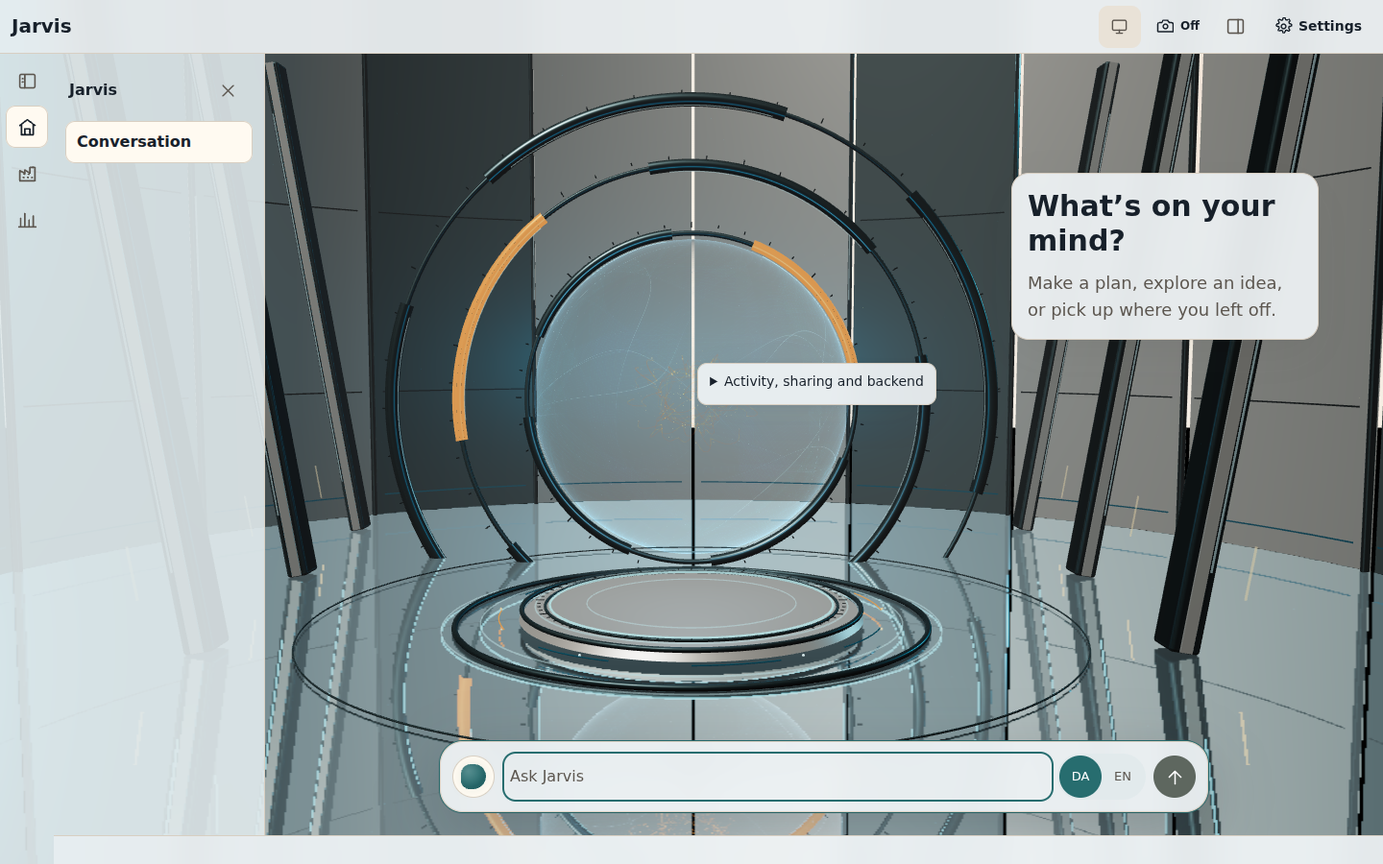
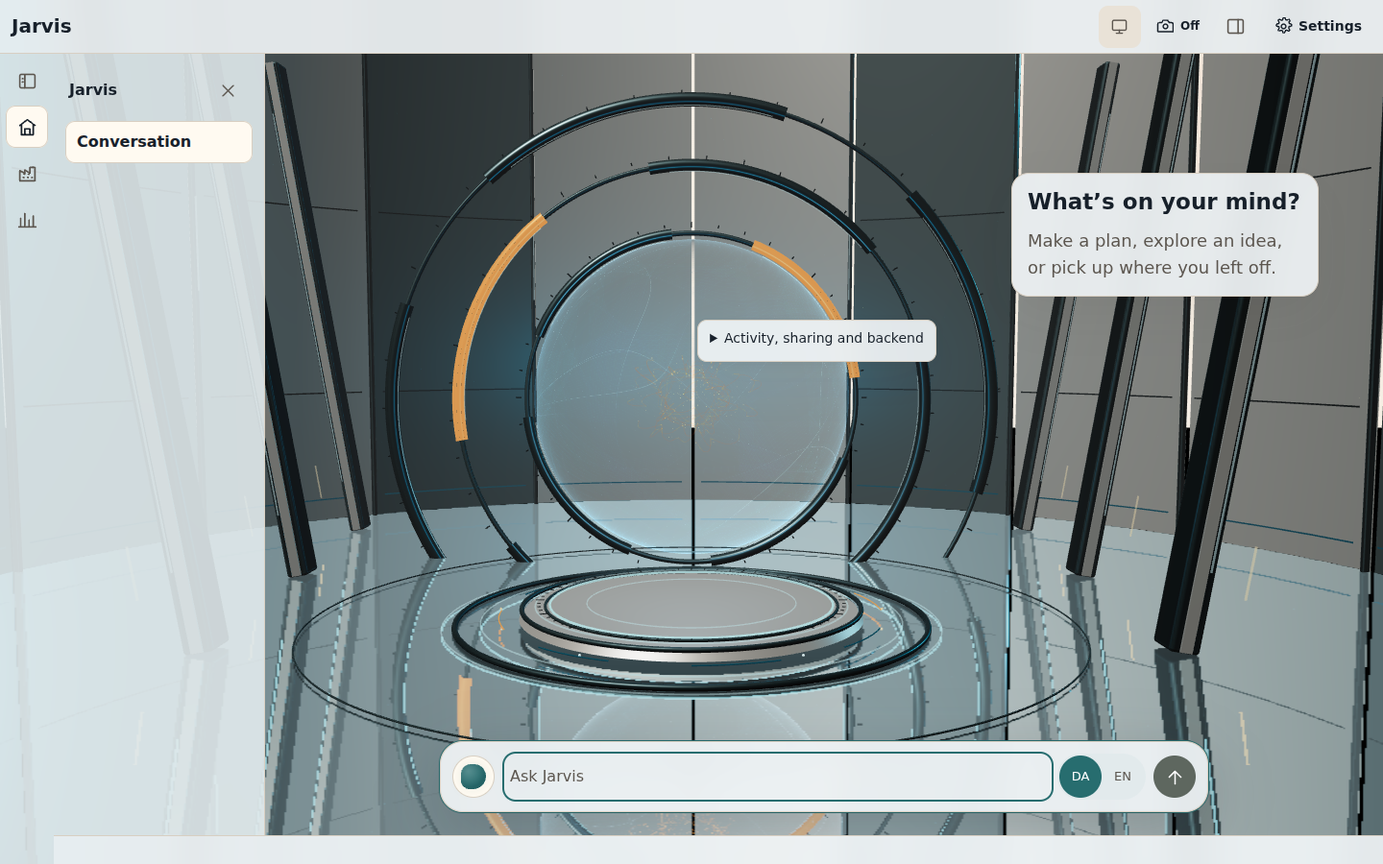
Complete appearance docs and regressions

Changed region(s): [[0.7188, 0.2178, 0.9688, 0.4044], [0.5, 0.3422, 0.6875, 0.4667]]

diff --git a/apps/web/src/theme-preference.test.tsx b/apps/web/src/theme-preference.test.tsx
@@ -157,6 +157,26 @@ describe('ThemePreferenceProvider', () => {
     await waitFor(() => expect(document.documentElement.dataset.theme).toBe('dark'));
   });
 
+  it('keeps the current theme while a save is pending and applies it only after acceptance', async () => {
+    const user = userEvent.setup();
+    let resolveSave!: (value: Response) => void;
+    fetchMock.mockResolvedValueOnce(response('light'))
+      .mockReturnValueOnce(new Promise<Response>((resolve) => { resolveSave = resolve; }));
+    renderPreference();
+
+    const light = await screen.findByRole('radio', { name: 'Light' });
+    await user.click(screen.getByRole('radio', { name: 'Dark' }));
+
+    expect(screen.getByText('Saving theme…')).not.toBeNull();
+    expect(screen.getByRole('radio', { name: 'Dark' }).closest('fieldset')).toHaveProperty('disabled', true);
+    expect(light).toHaveProperty('checked', true);
+    expect(document.documentElement.dataset.theme).toBe('light');
+
+    resolveSave(response('dark'));
+    await waitFor(() => expect(document.documentElement.dataset.theme).toBe('dark'));
+    expect(await screen.findByText('Theme saved.')).not.toBeNull();
+  });
+
   it('keeps the prior mode active after a rejected update and recovers on retry', async () => {
     const user = userEvent.setup();
     let storedTheme = 'light';

diff --git a/apps/web/src/SettingsPage.tsx b/apps/web/src/SettingsPage.tsx
@@ -394,7 +394,7 @@ export function SettingsPage({ backendUrl, getAccessToken }: {
         <form onSubmit={(event) => { void save(event); }}>
           <section className="settings-section" aria-labelledby="appearance-settings-heading">
             <h2 id="appearance-settings-heading">Appearance</h2>
-            <p className="settings-explanation">Choose a light or dark appearance for every page. The accepted theme is saved separately from other settings.</p>
+            <p className="settings-explanation">Choose a light, dark, or system appearance for every page. System follows your OS appearance. The accepted theme is saved separately from other settings.</p>
             <fieldset className="choice-group theme-choice-group"
               disabled={themePreference.state !== 'ready' || themePreference.saving}>
               <legend>Theme</legend>

diff --git a/apps/web/src/ConversationHistory.css b/apps/web/src/ConversationHistory.css
@@ -16,7 +16,7 @@
   box-shadow: var(--panel-shadow);
   backdrop-filter: blur(var(--surface-blur));
 }
-.conversation-greeting h2 { margin: 0; font-family: var(--font-heading); font-size: clamp(26px, 2.1vw, 30px); font-weight: 600; line-height: 1.2; }
+.conversation-greeting h2 { margin: 0; font-family: var(--font-heading); font-size: clamp(22px, 1.6vw, 24px); font-weight: 600; line-height: 1.2; }
 .conversation-greeting p { max-width: 36ch; margin: var(--space-3) 0 0; color: var(--text-muted); }
 .conversation-transcript[hidden], .composer[hidden] { display: none; }
 .conversation-transcript:focus-visible { outline: 3px solid var(--focus); outline-offset: -3px; }

diff --git a/apps/web/src/SettingsPage.test.tsx b/apps/web/src/SettingsPage.test.tsx
@@ -244,6 +244,7 @@ describe('SettingsPage', () => {
     renderSettingsPage();
 
     await screen.findByRole('heading', { name: 'Appearance', level: 2 });
+    expect(screen.getByText(/light, dark, or system appearance/)).not.toBeNull();
     expect(screen.getByRole('radio', { name: 'Light' })).toHaveProperty('checked', true);
     expect(screen.getByRole('radio', { name: 'Dark' })).toHaveProperty('disabled', false);
     expect(screen.getByRole('radio', { name: 'System' })).toHaveProperty('disabled', false);

diff --git a/PLAN.md b/PLAN.md
@@ -6,7 +6,7 @@ Phase 1 delivers the Software Factory. Requirements and page specifications are 
 
 - **Approved Software Factory layout (#369):** Task Lens board, project release bar and right task-details pane are planned in P8-34. The design handoff is published for review; shared glass task #364 (P8-31) is merged in #376. Existing task/detail/release contracts remain authoritative.
 
-- **Accepted centred Jarvis stage (P8-28–P8-33, #361–#366):** The handoff and prerequisites are complete; P8-28 (#375) and P8-31 (#376) are merged. P8-29's persistent orb wiring to authenticated activity and decoded playback audio is implemented offline in draft PR #377; focused web tests, lint and build pass. Scratch Chromium verified the same stage canvas in dormant, connecting, ready, playback-response and activity-fixture states at 1440×1000 and 390×844, in dark and light. Microphone capture remained off until the explicit enable action; reduced motion matched, mobile had no horizontal overflow, and no browser or shader errors remained after fixing the observed shader compile error. Evidence is in `docs/ui/centred-stage/p8-29-browser/`. Runtime fixtures are local and schema-valid, not live provider delivery; real microphone/speaker, hardware GPU, physical phone, Safari and flicker acceptance remain unverified. P8-30 owns reported transition-flicker verification. Keep P8-29–P8-33 follow-ups and their existing contracts distinct; do not manually change Issue/Status columns.
+- **Accepted centred Jarvis stage (P8-28–P8-33, #361–#366):** The handoff and prerequisites are complete; P8-28 (#375) and P8-31 (#376) are merged. P8-29's persistent orb wiring to authenticated activity and decoded playback audio is implemented offline in draft PR #377. P8-32 is implemented in PR #387: the same scene reads semantic theme roles, persists system mode through the existing settings contract, and the empty prompt/activity disclosure use readable glass. Focused web/backend checks and reduced-motion Chromium light desktop/phone captures are being completed. Chromium confirms an OS light↔dark change preserves the scene canvas, open activity disclosure and composer focus; evidence is in `docs/ui/screenshots/p8-32-empty-light-*.png`. These are local fixture captures, not live settings or provider verification; microphone/speaker, hardware GPU, physical phone, Safari and P8-30 flicker acceptance remain unverified. Keep P8-29–P8-33 follow-ups and their existing contracts distinct; do not manually change Issue/Status columns.
 - **P7-23 (#327):** Reopened: live first word remains 9–19 s after the earlier reflex fix. Chat settings now load alongside catalogue/context; content-free stage logs and spans, first-delta forwarding/cleanup, and incremental-streaming tests are implemented offline. Keep the 60-second container catalogue cache and on-demand memory tools; do not reintroduce caller-chosen `agent_session_id` (reverted in #356). Next: deploy through the approved workflow, collect Application Insights before/after timings, and investigate the reported ~4.5 s pre-container delay. The ≤2.5 s first-token / ≤4 s complete-reply acceptance is not verified.
 - **Approved Software Factory layout (#369):** Task Lens board, project release bar and right task-details pane are planned in P8-34. The design handoff is published for review; implementation waits for shared glass task #364 (P8-31), now in progress in PR #376. Existing task/detail/release contracts remain authoritative.
 
@@ -354,7 +354,7 @@ P8-04–P8-13 are the initial frontend allocation, selected after checking `main
 | P8-29 | [#362](https://github.com/DanAakesen/jarvis/issues/362) | Replace the current voice-only orb presentation with the accepted always-visible cyan orb and transparent amber core, connected to existing runtime activity and playback audio. | Persistent transparent cyan exterior/open amber core in typing and voice; real observed activity and playback-audio adapter; readiness/microphone rules unchanged; accessible state/reduced-motion and failure/reconnect tests. Full scope/checks: [#362](https://github.com/DanAakesen/jarvis/issues/362). | P8-28, P8-09, P8-16 | Complete |
 | P8-30 | [#363](https://github.com/DanAakesen/jarvis/issues/363) | Integrate the accepted persistent scene with real voice/window lifecycle, diagnose and remove reported transition flicker, and preserve reversible mode/window motion. | Diagnose and remove reported flicker in recorded entry/exit, reversals and repeated window cycles; same scene, orb-only placement; preserve tabs/windows, draft/focus, default-off preference, End voice/Escape and truthful acknowledgements. Full scope/checks: [#363](https://github.com/DanAakesen/jarvis/issues/363). | P8-29, P8-10, P8-07, P8-15 | Not started |
 | P8-31 | [#364](https://github.com/DanAakesen/jarvis/issues/364) | Apply the selected glass window and shell treatment to real components while preserving existing navigation, conversation, actions and temporary workspace behaviour. | Selected readable glass treatment across real shared components/pages; no 3D outside Jarvis; preserve existing controls/data/keyboard/window actions; contrast/focus/touch/long-content and dark/light responsive evidence. Full scope/checks: [#364](https://github.com/DanAakesen/jarvis/issues/364). | P8-01, P8-04, P8-06, P8-07, P8-08, P8-22 | Complete |
-| P8-32 | [#365](https://github.com/DanAakesen/jarvis/issues/365) | Implement dark and light appearances using the same live 3D Jarvis room, with theme-aware lighting/materials and persistent approved theme preferences. | Same room re-lit in light mode; geometry/viewpoint/window/runtime continuity through dark/light/system switching; persistent approved theme tokens and invalid-change recovery; readable light-mode browser evidence. Full scope/checks: [#365](https://github.com/DanAakesen/jarvis/issues/365). | P8-28, P8-29, P8-31, P8-13, P8-17 | Not started |
+| P8-32 | [#365](https://github.com/DanAakesen/jarvis/issues/365) | Implement dark and light appearances using the same live 3D Jarvis room, with theme-aware lighting/materials and persistent approved theme preferences. | Re-light the same scene; preserve geometry/viewpoint/window/runtime continuity through dark/light/system switching; persist approved theme tokens with invalid-change recovery; keep empty-state HTML readable and clear of the orb; record reduced-motion browser evidence. Full scope/checks: [#365](https://github.com/DanAakesen/jarvis/issues/365). | P8-28, P8-29, P8-31, P8-13, P8-17 | Not started |
 | P8-33 | [#366](https://github.com/DanAakesen/jarvis/issues/366) | Finish the accepted 3D experience on phones and constrained browsers, with adaptive rendering, reduced motion, resource recovery and end-to-end acceptance. | Phone foreground view/swipe/dock and reachable controls; adaptive rendering and hidden/off-route lifecycle; reduced motion and WebGL recovery/fallback; motion/performance/regression evidence with live/physical-device limits explicit. Full scope/checks: [#366](https://github.com/DanAakesen/jarvis/issues/366). | P8-30, P8-31, P8-32, P8-11 | Not started |
 
 ### Out of scope for phase 1

diff --git a/docs/decisions.md b/docs/decisions.md
@@ -32,6 +32,7 @@ The nine design areas and where each stands. **Confirmed** = Dan's requirement o
 | 2026-10-05 | P7-20 streams English and Danish Voice Live partial transcriptions to the backend relay. Jev receives stable clauses and the per-turn execution ledger; only complete, high-confidence, reversible safe actions may run on partials. Final transcripts update any early source message, reconcile contradictory actions with supported undo, and hand truthful results to Jarvis. | The relay tests use timed fake deltas and a fake Jev client to prove action-before-final, duplicate suppression, confirmation gating, contradiction undo, message replacement and latency recording. Metrics are allowlisted without transcript content. Live Voice Live event delivery, Jev network latency, and physical audio timing remain unverified. | Implemented offline; live verification pending |
 | 2026-10-05 | P8-23 applies the existing Concept B/C aurora and orb to voice mode: show only workspace windows, keep Arrange in each window's overflow, present actual runtime/audio state with one quiet detail line, and group named voice actions beneath the orb. Reuse the composer-orb/workspace transition and leave P8-16 event plumbing unchanged. | The treatment extends P8-20 tokens and P8-22 chrome without changing voice behavior or inventing tool activity. Focused web tests and Chromium verify atomic status details, the ready-state phone dock, both Escape steps, End voice, responsive bounds, hidden-tab pause and reduced motion. Screenshots are labelled local fixtures, not live voice or tool-event evidence. | Implemented offline; draft PR review pending |
 | 2026-10-05 | P8-31 applies the accepted smoky glass to the existing shell, conversation composer, temporary workspace, contextual panel, Factory and Settings through the existing semantic tokens. Use sans headings, keep current page content and controls, and do not add the 3D room outside Jarvis or copy the reference's illustrative data. | The light/dark glass tokens live in `apps/web/src/styles.css`; tests calculate primary text, muted-text, current-color icon and focus contrast on both glass surfaces over black/white backdrops. Follow-up review found the earlier dark captures were taken before the 420ms appearance transition settled, so dark captures and computed-style evidence were regenerated after the actual dark colors appeared. Conversation Markdown now uses the primary text role, and the light muted-text token meets AA on the glass surface. The integrated foreground was visually checked over the stage in P8-29; see its evidence for limits. | Merged in #376; live/device verification remains pending |
+| 2026-10-05 | P8-32 reuses the existing persisted `light`/`dark`/`system` preference and approved token allowlist. System mode follows OS changes, and the same mounted Jarvis room reads semantic CSS stage roles for its materials, lighting, exposure and atmosphere. Keep the empty prompt on smoky light glass in the app sans font, clear of the orb; supporting explanation stays body text. | The existing settings API remains the persistence boundary; no new setting, provider call or executable theme tool is added. Web regressions cover OS resolution, accepted/refused settings and scene continuity. Scratch-fixture Chromium confirms same-canvas system switching and records reduced-motion light desktop/phone captures under `docs/ui/screenshots/p8-32-*`. The captures are local-render evidence only; live settings, hardware GPU, physical devices, Safari and P8-30 flicker remain unverified. | Implemented offline; coordinator review pending |
 | 2026-10-05 | P8-29 keeps the accepted orb mounted through typing, voice entry, playback and voice exit. Drive awake appearance only from existing authenticated runtime activity, explicit voice state and decoded response-playback PCM; keep visual dormancy independent from backend sleep/readiness, and start microphone capture only after explicit user enablement. Do not add demo selectors or infer activity from local submits. | Reuses the existing Now SSE, `useJarvisActivity` and decoded `BrowserVoiceClient` audio-level callback without another backend contract or DOM wrapper. Focused tests cover scene persistence, activity/audio forwarding and microphone rules. Scratch-fixture Chromium verified desktop/phone dark/light, connecting/ready/audio response, a schema-valid activity event, reduced motion, no phone overflow and no browser/shader errors after the shader fix. Fixture data is not live delivery; actual audio devices, live Entra/Foundry, hardware GPU, physical phone and P8-30 flicker acceptance remain unverified. | Implemented offline in PR #377; live acceptance pending |
 | 2026-10-05 | P8-15 delivers one validated `workspace_command` tool through the existing Jarvis-only authenticated tool registry and the signed-in `/now/events` stream. Keep its queue, command-id deduplication and acknowledgements in process memory; require the owning session's authenticated client to acknowledge after applying or refusing each command. | Reuses the existing authenticated event path and the P8-06/07 `WorkspaceCommandContext`, while keeping generated views/layout transient and avoiding generated code execution. Contract, broker, route, SSE, renderer and workspace tests cover malformed commands, bounds, duplicate IDs, unavailable/stale clients, cancellation, timeout and local application. Live Entra/Foundry delivery remains unverified. | Implemented offline; live acceptance pending |
 | 2026-10-05 | P7-12: speak only fixed status phrases for committed task completion/attention events, signed GitHub ready-for-review and failed-deployment events; merge repeated kinds over 500 ms and wait for Dan, Jarvis and tools to be idle. Retry a queued update when Dan stops speaking. Register `get_status_summary` as an authenticated backend tool returning bounded Now-feed counts only and applying Away-mode visibility. | Task event publication follows SQL commit. GitHub status kinds are published only after signed delivery persistence and existing mapping processing; duplicate deliveries do not create duplicate status events. Fake event-hub, webhook, tool-route and relay tests cover event selection, safe wording, deferral and counts. No new service, schema or dependency is required. | Implemented offline; live voice acceptance pending |

diff --git a/docs/features.md b/docs/features.md
@@ -137,7 +137,7 @@ Status as of 5 October 2026.
 | Desktop voice workspace | Enter full-page voice, carry open views across modes, and restore the typing layout; optionally minimise windows on entry (off by default) | Voice/chat | Main page | Built offline; voice presentation uses P8-20 tokens and P8-22 window chrome; generated workspace delivery remains P8-15, tool activity P8-16, and preference persistence P8-17 | P8-10, P8-14, P8-15, P8-16, P8-17, P8-23 |
 | Phone workspace | Show one foreground view, switch by swipe, named/keyboard controls or client request, and dock active voice below content; return the orb to the main space with no content | Phone | Jarvis on phone; compact typing top bar and composer | Built offline; real components verified with labelled fixtures, authenticated agent delivery remains P8-15 and physical-phone acceptance unverified | P8-11, P8-23 |
 | Manual voice-end affordance | Use the selected manual end control and Escape-key behavior without changing natural spoken ending | Both | Voice workspace | Implemented in P8-10 per the P8-12 decision; P8-23 groups End voice with the orb actions | P8-10, P8-12, P8-23 |
-| Theme controls and client persistence | Choose and persist light/dark appearance across visits; semantic theme variables update across the app. Custom and Jarvis-directed token changes remain unavailable pending P8-17, which uses P8-18's recorded allowlist. | Screen | Shared shell, Settings | Built (offline; live settings unverified) | P8-13 |
+| Theme controls and client persistence | Choose and persist light/dark/system appearance across visits; system follows the OS, semantic theme variables update across the app, and the same Jarvis room is re-lit without remounting. Approved theme tokens remain on the existing P8-17/P8-18 allowlist. | Screen | Shared shell, Settings and Jarvis stage | Built offline; local Chromium confirms same-canvas OS updates; live settings remain unverified | P8-13, P8-32 |
 | Shared visual and motion system | Use Concept B's living aurora in dark mode and Concept C's daylight surfaces in light mode; see readable, responsive feedback tied only to real chat/voice state and playback audio | Screen/voice | Current shell, conversation, tasks, projects, settings and usage | Built offline; live auth/settings/voice remain unverified | P8-20 |
 | Conversation and workspace concept polish | Start from a calm greeting and compact floating composer; read divider-free messages, live caret and quiet metadata; operate translucent windows and Now cards with purposeful, reduced-motion-safe feedback | Screen | Main page and client workspace | Built offline; local screenshot fixtures, not live agent delivery | P8-21 |
 | Agent-directed workspace views | Ask Jarvis to create, update, show, close, minimise, restore, focus, move and resize views, and change the layout or contextual panel | Both | Main page and voice workspace | Built offline; live chat/voice delivery unverified | P8-15 |
@@ -196,6 +196,6 @@ The earlier shell/workspace/contracts remain implemented with their recorded liv
 | Persistent transparent orb | Dormant cyan exterior/open amber core in typing, brighter in voice, driven by authenticated runtime activity and decoded playback audio; dormancy does not affect sleep or microphone permission | Jarvis, including phone | Implemented offline in draft PR #377; local desktop/phone, dark/light and fixture-state evidence recorded; live provider/audio acceptance remains unverified | P8-29 |
 | Continuous scene/window transitions | Orb alone moves/scales for content; room stays fixed; preserve windows/drafts/focus and eliminate reported flicker | Jarvis typing/voice | Basic content positioning is in #375; transition-flicker acceptance remains open | P8-30 |
 | Selected glass surfaces | Readable translucent shell/window surfaces using existing navigation, views and controls; no 3D on other routes | Current shared shell/pages | Merged in #376; contrast over the integrated stage was visually inspected with P8-29 | P8-31 |
-| Re-lit light appearance | Same room geometry/viewpoint re-lit for light mode; existing approved preferences/tokens persist | Jarvis stage and shared appearance | Light palette implemented in #375; broader acceptance remains tracked | P8-32 |
+| Re-lit light appearance | Same room geometry/viewpoint re-lit for light mode; existing approved preferences/tokens persist; empty prompt and activity disclosure use readable glass | Jarvis stage and shared appearance | Implemented offline; light desktop/phone captures and system-switch continuity recorded for review; live settings, real devices and hardware GPU remain unverified | P8-32 |
 | Resilient phone/GPU experience | Single-view docking/swipe, adaptive quality, hidden-tab lifecycle, reduced motion and usable WebGL failure handling | Jarvis phone/browser | Responsive quality, reduced motion, lifecycle and fallback implemented in #375; physical hardware acceptance pending | P8-33 |
 [Requirements](../ui.md#accepted-centred-3d-stage--5-october-2026), [references](ui/centred-stage/README.md), [runnable prototype](reference/ui-stage-prototype/README.md). Reuse P8-14–P8-17 for data, tools, activity and preference logic; do not recreate those completed tasks. The latest persistent orb decision supersedes older phone-typing/voice-collapse visual requirements.

diff --git a/docs/agent-context.md b/docs/agent-context.md
@@ -245,6 +245,7 @@ Verified in Codex cloud for P0-02:
 | Focused P3-11 checks | `npm test --workspace @jarvis/backend -- --run src/core/settings.test.ts`; `npm test --workspace @jarvis/web -- --run src/SettingsPage.test.tsx src/factory/ProjectsPage.test.tsx src/factory/TasksPage.test.tsx` |
 | Focused P3-13 checks | `npm --workspace @jarvis/backend test -- --run src/github-app.test.ts src/factory/projects.test.ts`; `npm --workspace @jarvis/web test -- --run src/factory/ProjectsPage.test.tsx` |
 | Focused P8-17 settings/theme checks | `npm test --workspace @jarvis/backend -- --run src/core/settings.test.ts src/core/theme.test.ts`; `npm test --workspace @jarvis/web -- --run src/SettingsPage.test.tsx` |
+| Focused P8-32 appearance checks | `npm test --workspace @jarvis/backend -- --run src/core/settings.test.ts src/core/theme.test.ts`; `npm test --workspace @jarvis/web -- --run src/theme-preference.test.tsx src/SettingsPage.test.tsx src/JarvisStage.test.tsx src/styles.test.tsx src/ConversationHistory.test.tsx`; `npm run lint --workspace @jarvis/web`; `npm run build --workspace @jarvis/web` |
 | Focused P3-12 contracts | `npm test --workspace @jarvis/backend -- --run src/credentials/repo-admin.test.ts src/factory/new-project.test.ts src/factory/heartbeat.test.ts`; `runner/.venv/bin/python -m pytest -q runner/tests/test_app.py` from repository root |
 | Focused chat UI and API tests | `npm test --workspace @jarvis/web -- --run src/ConversationHistory.test.tsx src/conversation-history.test.ts`; `npm test --workspace @jarvis/web -- --run src/App.test.tsx` |
 | Focused P8-26 queue and cancellation tests | `npm test --workspace @jarvis/web -- --run src/ConversationHistory.test.tsx src/conversation-abort.test.tsx` |
@@ -474,6 +475,17 @@ scene/glass text was also visually checked. No live backend/provider, real audio
 device, hardware GPU, physical phone, Safari or transition-flicker acceptance is
 claimed. The fixtures and generated audio are local test data, not production
 simulated state controls.
+P8-32 used a scratch-only auth/API fixture and Chromium with SwiftShader at
+1440×900 and 390×844, with reduced motion enabled. The browser rendered the real
+same-room WebGL stage under the light semantic palette; one canvas remained
+mounted while the saved `system` mode followed OS dark↔light changes, an open
+activity disclosure stayed open, and composer focus was retained. No microphone
+request, horizontal overflow, or browser error occurred. Review captures are
+[`p8-32-empty-light-desktop-1440.png`](ui/screenshots/p8-32-empty-light-desktop-1440.png)
+and [`p8-32-empty-light-phone-390.png`](ui/screenshots/p8-32-empty-light-phone-390.png).
+These use local API fixtures, do not verify live settings/provider behavior, and
+do not constitute approval of a light-mode mockup. Hardware GPU, physical
+devices, Safari, live voice, and P8-30 transition flicker remain unverified.
 P1-14 was inspected at 390 and 1440 px with scratch-only database-status and
 project API mocks: “Waking Jarvis…” appeared during a reported wait, disappeared
 when requests settled, and status polling stopped while idle. No horizontal

diff --git a/docs/architecture.md b/docs/architecture.md
@@ -90,12 +90,17 @@ Jarvis is one backend with a shared core and one module per area, a static web a
   reads the signed-in user's usage report. `/settings` is the shared settings entry. P1-11
   implements it as a responsive form for Jarvis, voice, coding-agent defaults,
   global task limits, and appearance. P8-13's shell-level theme provider loads
-  the accepted `appearance.theme` from `/settings`, saves light/dark changes
-  through the same authenticated API, and applies them to semantic CSS
-  variables on the document root. Theme changes take effect only after the
+  the   accepted `appearance.theme` from `/settings`, saves light/dark/system changes
+  through the same authenticated API, and resolves system mode from the OS
+  preference. It applies the effective mode and approved appearance tokens to
+  semantic CSS variables on the document root. Theme changes take effect only after the
   server returns the accepted value; rejected updates retain the previous
   appearance. Remaining voice samples, sleep, credential, and custom-theme
   controls are visibly disabled until their owning services/contracts exist.
+- P8-32 keeps the existing Jarvis Three.js scene mounted while theme changes
+  update its materials, lights, exposure and atmosphere from the semantic
+  `--stage-*` CSS roles. Shared glass roles keep foreground HTML readable over
+  either rendering; no additional preference or provider path is introduced.
 - P8-20 keeps the visual system in `apps/web/src/styles.css`: semantic light/dark
   roles, type and layout tokens, elevation/translucency, and shared motion rules.
   P8-16 publishes typed chat/voice runtime activity through the existing

diff --git a/ui.md b/ui.md
@@ -585,6 +585,7 @@ Dan accepted the corrected live browser prototype as the implementation directio
 - Use [selected image 3](docs/ui/centred-stage/selected-orb-and-stage.png) for orb/core, expansive stage and mirror; use [selected image 2](docs/ui/centred-stage/selected-glass-window.png) for rounded translucent smoky glass windows, generous readable spacing, typography and restrained controls. Corrected centred prototype captures override the generated image's left placement.
 - Carry the glass surface system into existing shared components and pages. Preserve each page's real workflow/data rather than copying the illustrative comparison data, two-column layout or source-balance slider everywhere.
 - Dark and light appearance share room geometry, camera, spatial composition, orb and reflection. Light mode changes lighting, materials, exposure/atmosphere and readable surface roles, not the room into a flat image. Existing validated theme preferences and approved dynamic tokens persist as before.
+- The empty conversation prompt is an app-font headline on a smoky-light glass surface positioned clear of the orb rings; supporting copy is ordinary body text rather than a subtitle. Keep the activity disclosure readable on its own glass surface.
 - Phone retains one foreground view, swipe/direct-request switching and a reachable voice dock; with no content the orb recentres. Quality can adapt to GPU/browser capability without breaking HTML chat/voice/window controls. Reduced motion and unavailable/lost WebGL must retain a usable interface.
 
 ### Evidence and implementation handoff

diff --git a/PRODUCT.md b/PRODUCT.md
@@ -135,7 +135,7 @@ Dan never fills in a project form. He gives Jarvis, by voice or chat, a project 
 
 ### Settings
 
-Global defaults on the settings page; a task can override the coding-agent model and reasoning. A changed setting applies to new sessions and tasks, never to running ones. Only models available in the Foundry account or Dan's subscriptions are offered. Appearance and the optional voice-start window preference are persisted; generated views and window arrangement remain temporary.
+Global defaults on the settings page; a task can override the coding-agent model and reasoning. A changed setting applies to new sessions and tasks, never to running ones. Only models available in the Foundry account or Dan's subscriptions are offered. Light, dark, or system appearance and the optional voice-start window preference are persisted; system appearance follows the OS without replacing or restarting the live Jarvis room. Generated views and window arrangement remain temporary.
 
 Dan can also change Jarvis's model or reasoning by chat or voice for the next session, and change the agent or verified model options on a Ready coding task. Running-task model changes are refused with a reason; they never alter an active turn.
 

diff --git a/DESIGN.md b/DESIGN.md
@@ -428,6 +428,9 @@ auto-growing frameless input, compact DA/EN buttons and an icon-only Send
 action. The input retains its accessible label and Enter/Shift+Enter behavior.
 Screen sharing, Now and backend controls sit under the activity disclosure;
 frame-inspection actions appear when a camera or screen is shared.
+P8-32 renders the greeting as one sans heading with ordinary supporting copy
+(not a subtitle) on smoky-light glass, placed clear of the orb rings; the
+activity disclosure has its own readable glass surface.
 
 Dan's messages sit on a quiet surface on the right; Jarvis's replies stay open
 on the left. There are no message dividers. Channel, language and relative time
